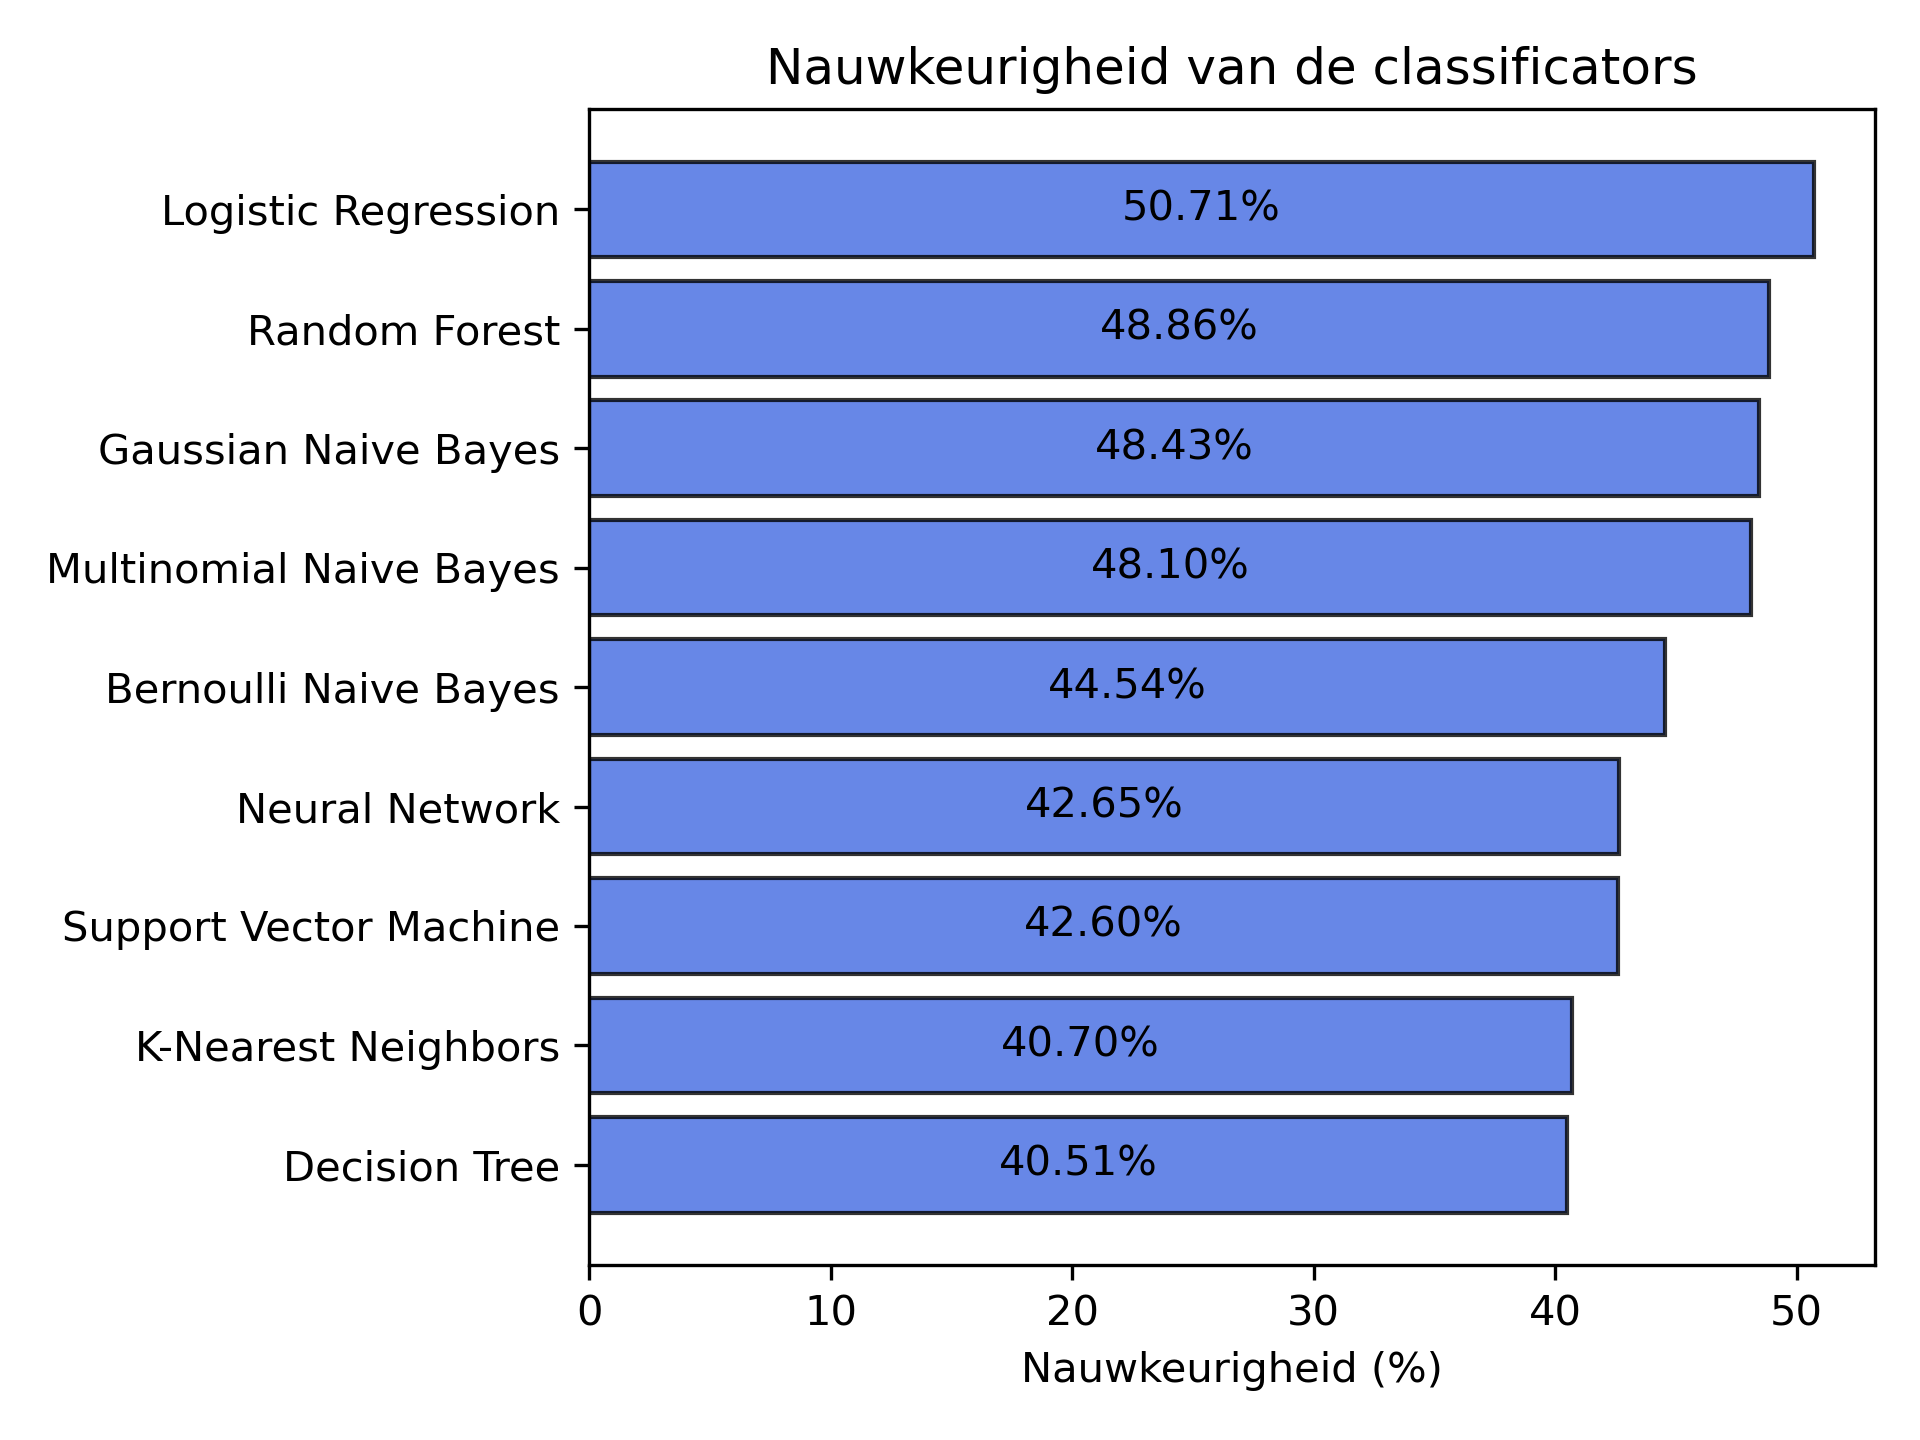
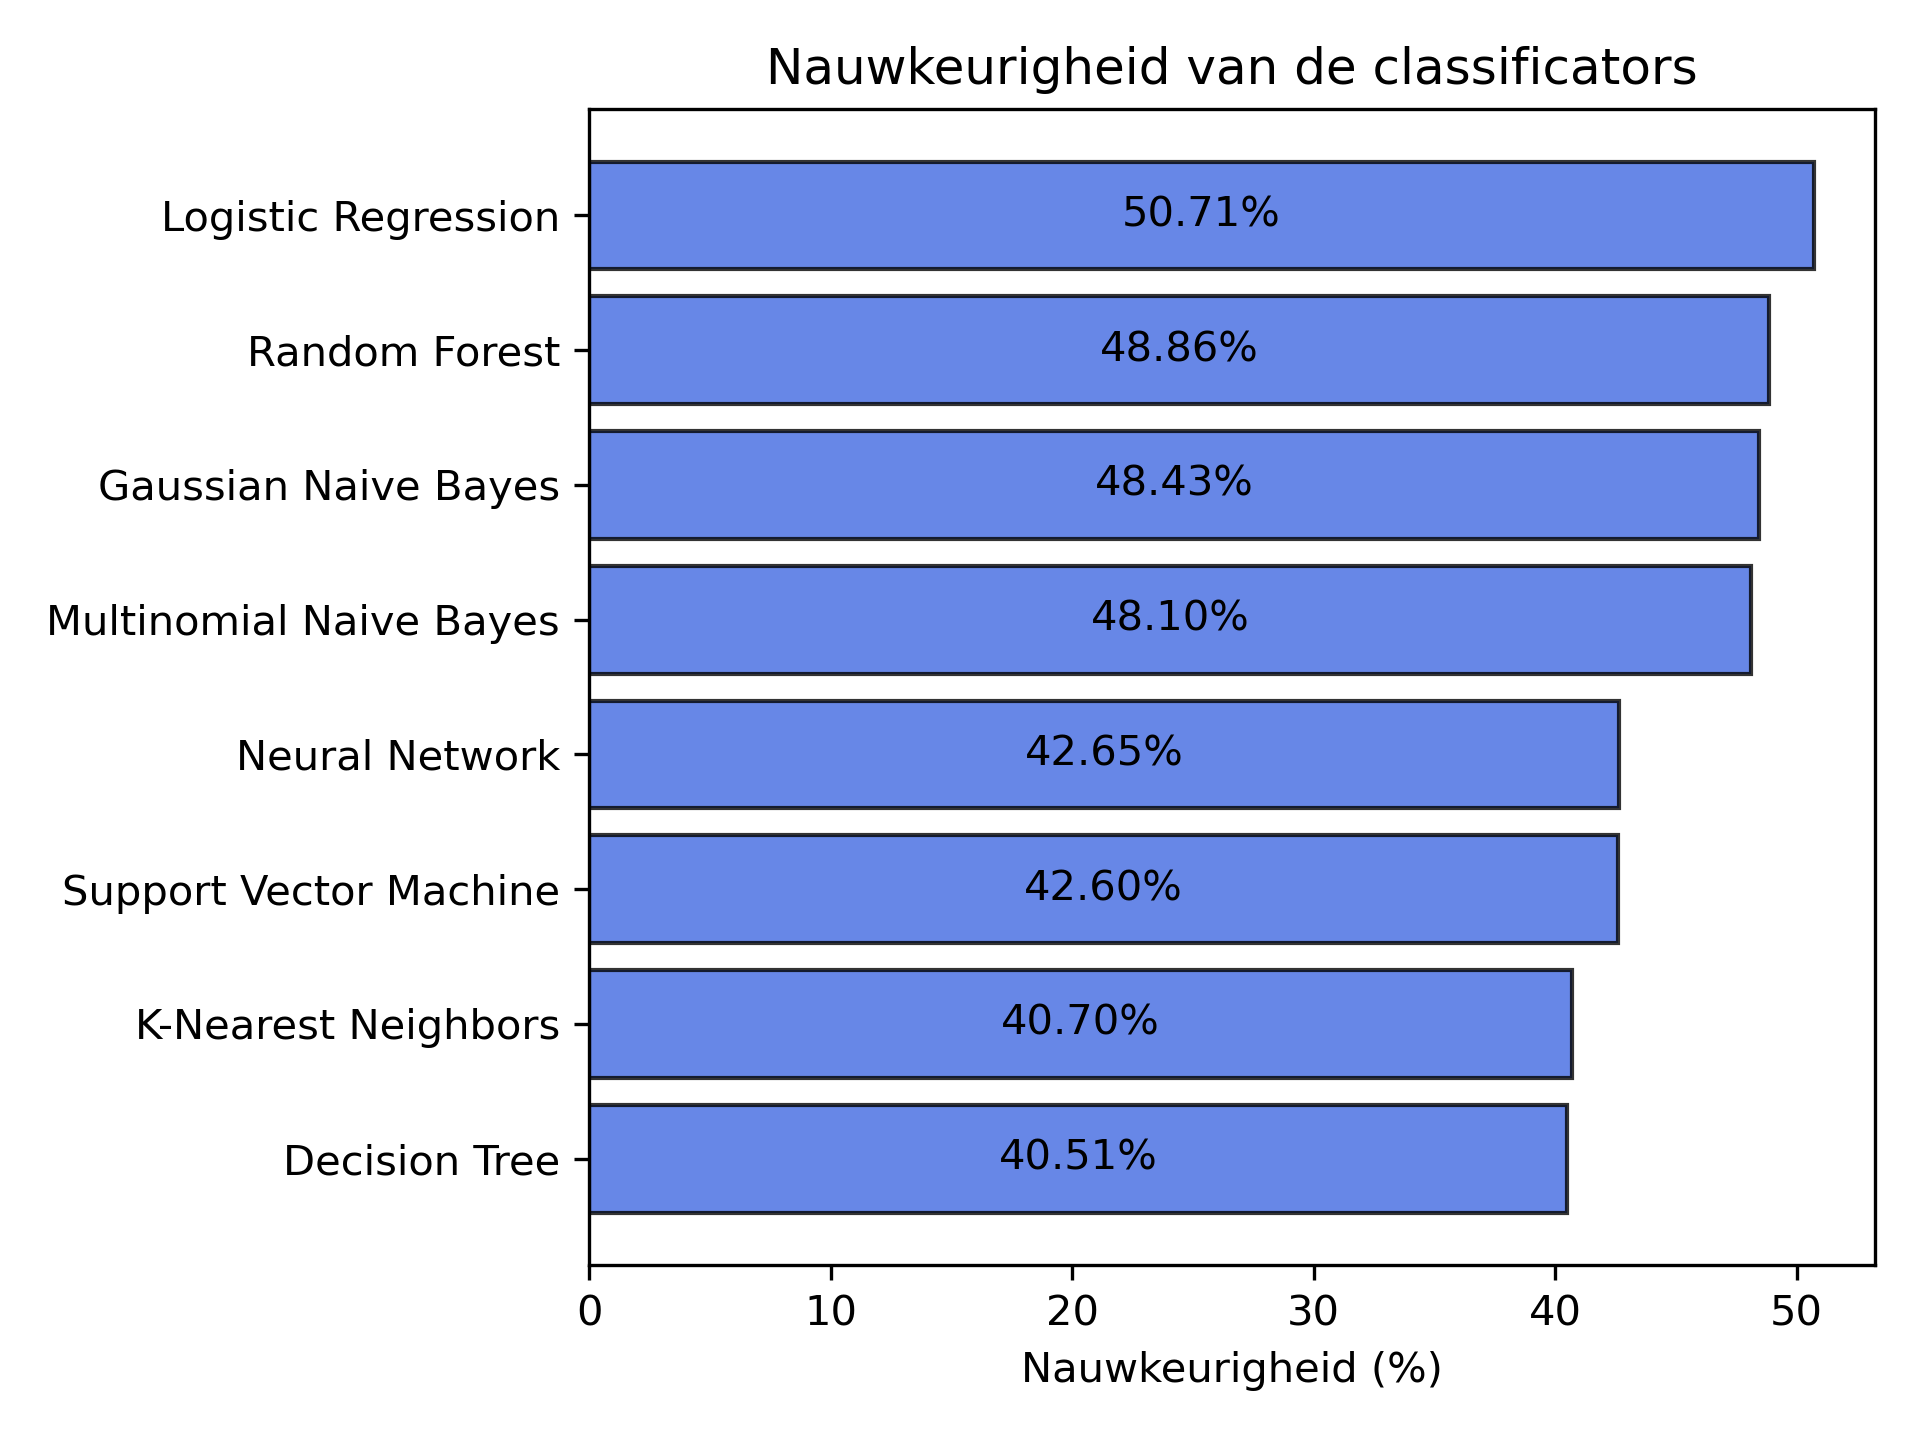
Removed BernoulliNB

Changed region(s): [[0.0312, 0.125, 0.9375, 0.8438], [0.0938, 0.125, 0.3125, 0.1875]]

diff --git a/predict.py b/predict.py
@@ -17,7 +17,7 @@ import time
 import datetime
 from sklearn.metrics import accuracy_score
 from sklearn.linear_model import LogisticRegression, LinearRegression
-from sklearn.naive_bayes import GaussianNB, BernoulliNB, MultinomialNB
+from sklearn.naive_bayes import GaussianNB, MultinomialNB
 from sklearn.neighbors import KNeighborsClassifier, KNeighborsRegressor
 from sklearn.svm import SVC, SVR
 from sklearn.neural_network import MLPClassifier, MLPRegressor
@@ -142,10 +142,6 @@ def classification_prediction(data, targets, hyperparams_tuning, n, verbose,
          }),
         (GaussianNB(),
          {}),  # No hyperparameters to tune
-        (BernoulliNB(),  # (TODO: deze doen?)
-         {
-                "estimator__alpha": [0.01, 0.1, 0.5, 1, 2],
-         }),
         (MultinomialNB(),
          {
              "estimator__alpha": [0.01, 0.1, 0.5, 1, 2],
@@ -245,7 +241,7 @@ def regression_prediction(data, targets, hyperparams_tuning, n, verbose,
              "estimator__weights": ["uniform", "distance"],
              "estimator__p": [1, 2, 3]
          }),
-        (SVR(),  # TODO: epsilon op 1/2
+        (SVR(),
          {
              "estimator__kernel": ["poly", "rbf", "sigmoid"],
              "estimator__C": [0.1, 0.5, 1, 3]

diff --git a/plot.py b/plot.py
@@ -18,7 +18,6 @@ from tqdm import tqdm
 classifiers = [
     "LogisticRegression",
     "GaussianNB",
-    "BernoulliNB",
     "MultinomialNB",
     "KNeighborsClassifier",
     "SVC",
@@ -31,7 +30,6 @@ classifiers = [
 model_names = {
     "LogisticRegression": "Logistic Regression",
     "GaussianNB": "Gaussian Naive Bayes",
-    "BernoulliNB": "Bernoulli Naive Bayes",
     "MultinomialNB": "Multinomial Naive Bayes",
     "KNeighborsClassifier": "K-Nearest Neighbors",
     "SVC": "Support Vector Machine",
